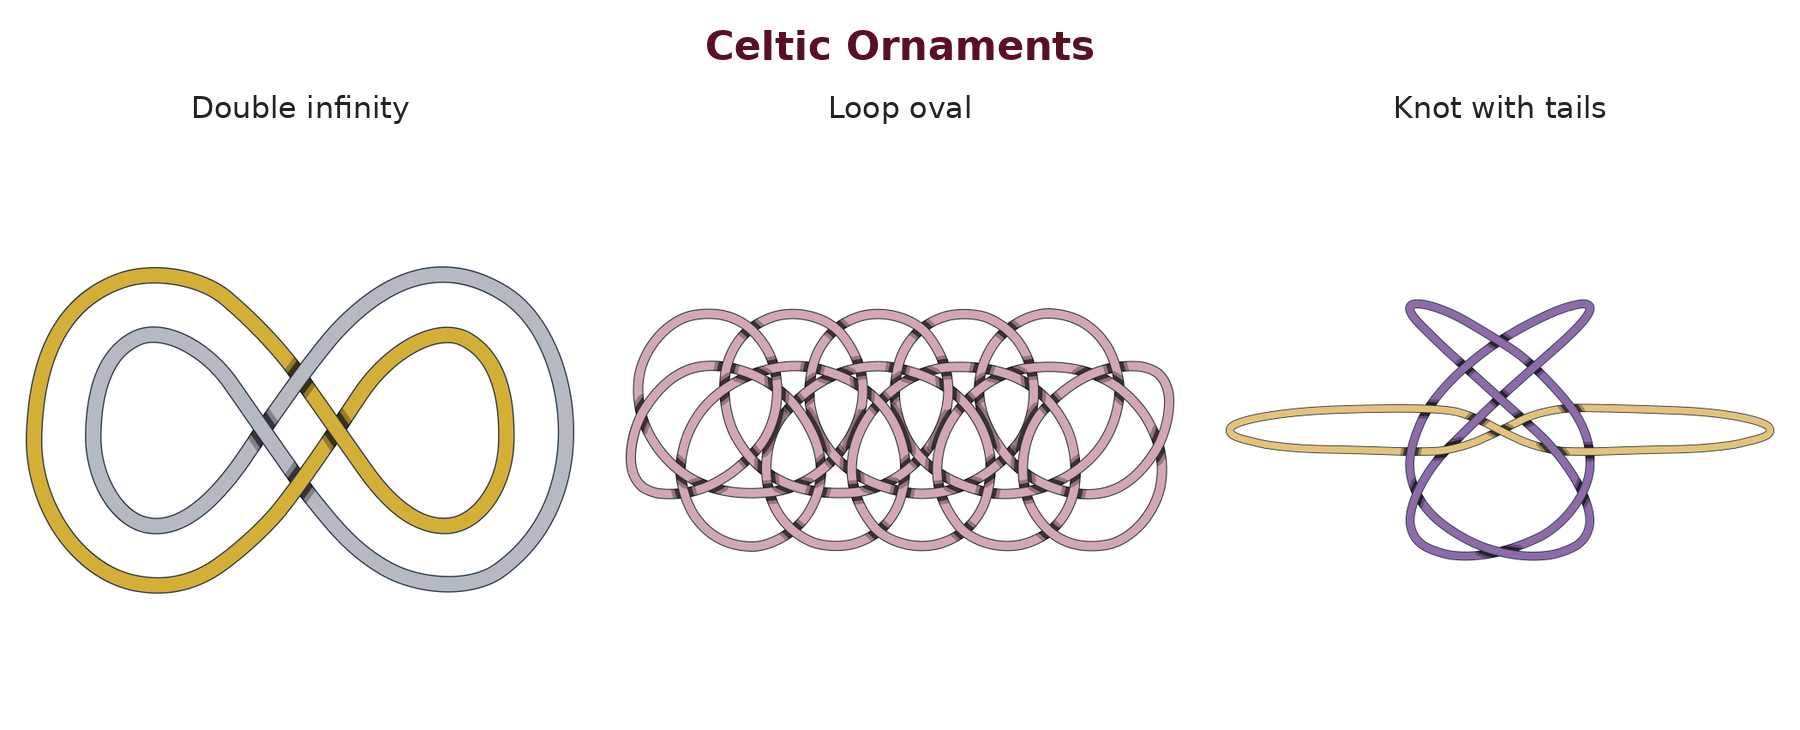
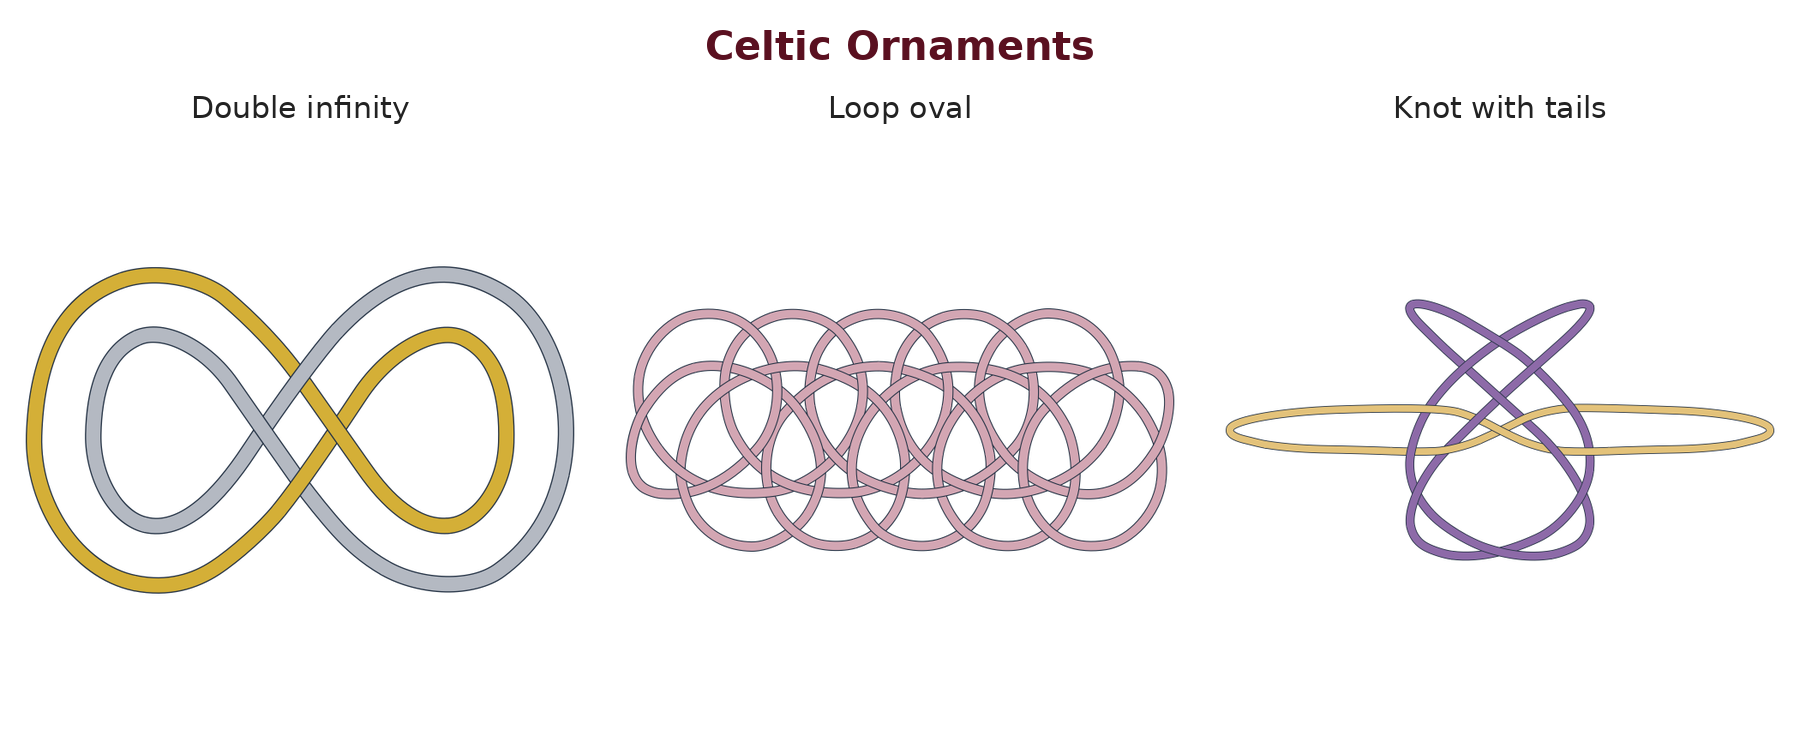
Show the Celtic ornaments card without shadows
Claude-Session: https://claude.ai/code/session_01Hh8sTZS7KDQVqVs4NnzGrm

diff --git a/knot_samples/celtic/README.md b/knot_samples/celtic/README.md
@@ -20,7 +20,7 @@ Three ornaments after classic Celtic line-art borders, in metallic thread tones 
 | `loop_oval` | Loop oval: two rows of round loops, pointing out, whose inner arcs interlace into a lattice | 69 | 30 |
 | `tailed_knot` | Knot with tails: a 3 × 2 Lissajous knot threaded by a long infinity whose lobes form the tails; the infinity is steepened at its middle so no crossings crowd at the centre | 31 | 8 |
 
-`images/ornaments_sheet.png` shows the three ornaments.
+`images/ornaments_sheet.png` shows the three ornaments with shadows turned off; their own pictures keep the shadows.
 
 `images/contact_sheet.png` shows the Valknut, knot panel and shield knot next to the box stitch sample (`src/samples/box_stitch.json`).
 
